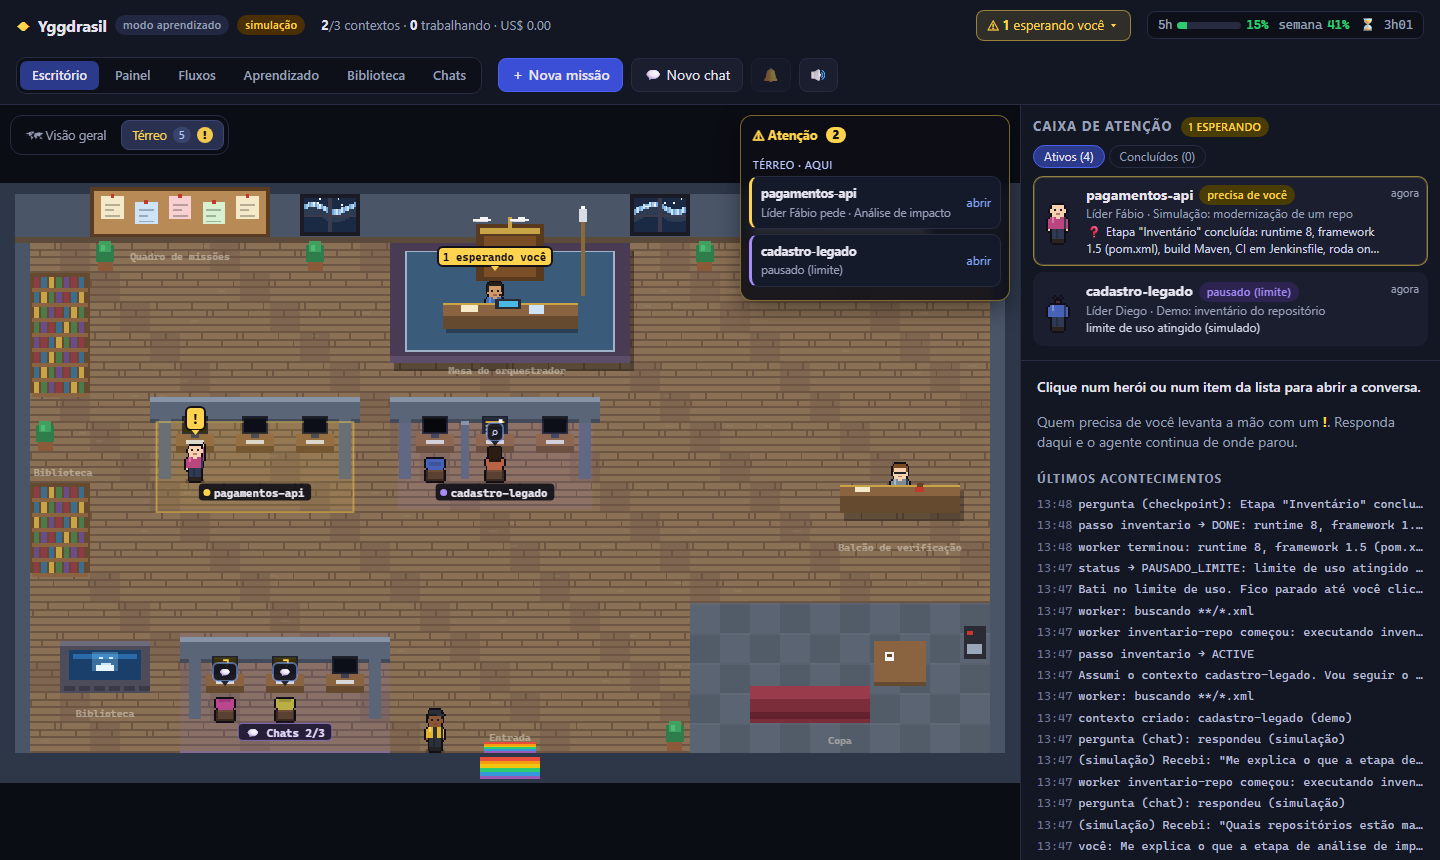
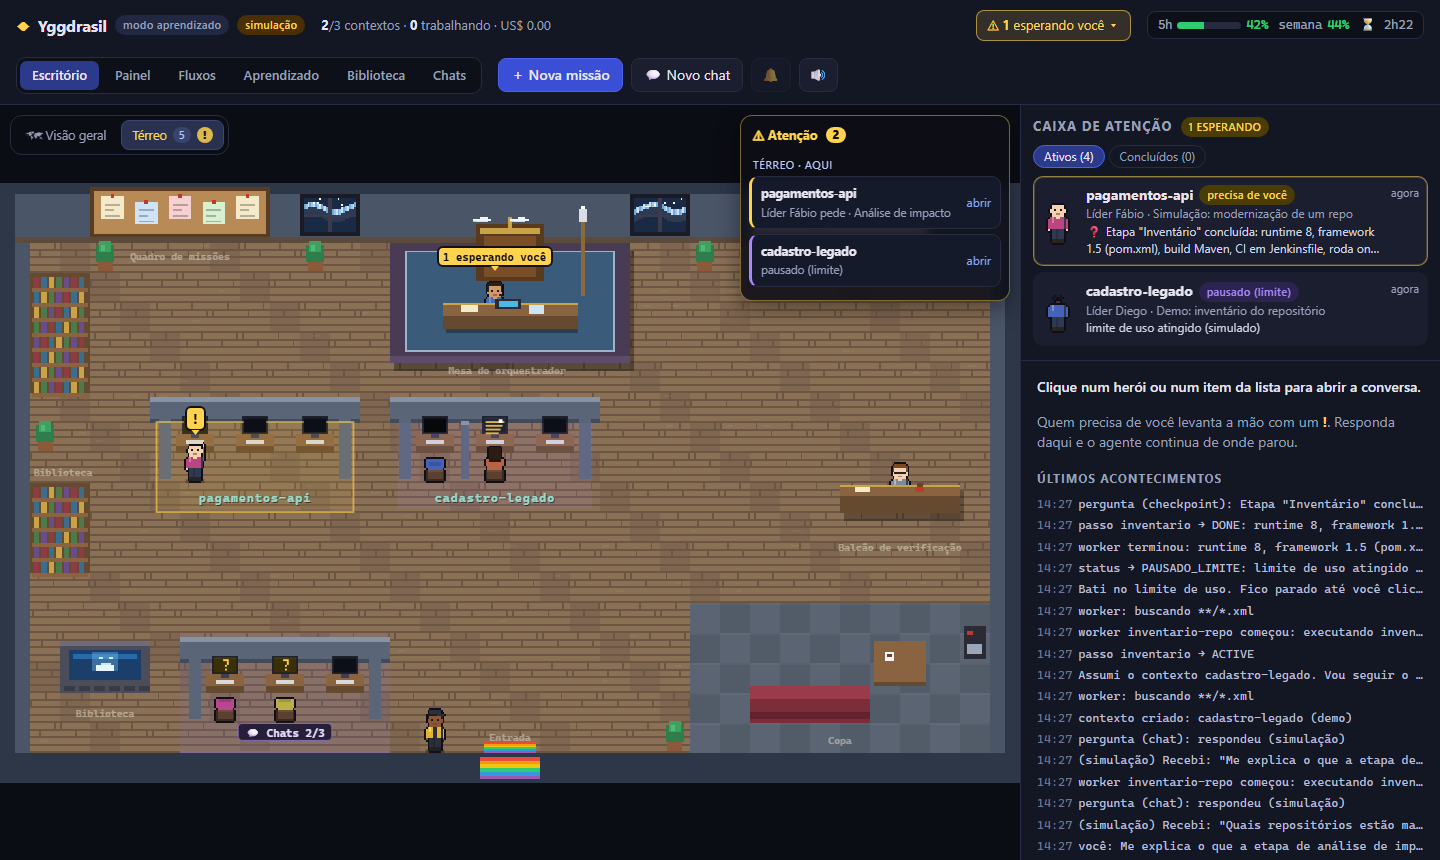
feat: escritório sem bolha de atividade, nome da baia no chão e terminal isolado por agente (núcleo v0.5.2)
- Em cima dos agentes só o que pede você (! e erro), como na visão geral; o que cada um
  executa aparece na dica ao passar o mouse.
- Nome do repo (e do serviço) escrito no chão da baia; a placa com o status aparece ao
  passar o mouse.
- Clicar num agente abre o Terminal isolado nele (só o bloco dele e o que ele lançou),
  com "ver todos" para voltar; a aba Terminal mostra a sessão inteira.
- Imagens do escritório no README refeitas na simulação do molde.

diff --git a/.claude/office/escritorio/motor.js b/.claude/office/escritorio/motor.js
@@ -16,6 +16,7 @@ export function criarEscritorio(canvas, { onSelecionar, onHotspot, onDica, zoomI
   let selecionado = null;
   let agenteSel = null; // ator clicado (destaque próprio, além da baia)
   let hover = null;
+  let hoverBaia = null; // id do contexto da baia sob o mouse: mostra a placa (balão) dela
   let vista = { tipo: 'andar', k: 0 }; // um andar por vez, ou a visão geral (todos os andares em grade)
   let ultimoAndar = 0;
   let celulas = [];                    // visão geral: onde cada andar é desenhado na tela
@@ -400,9 +401,33 @@ export function criarEscritorio(canvas, { onSelecionar, onHotspot, onDica, zoomI
     rotuloLugar(17 * T, 18.6 * T, lug.porta || '');
     }
 
-    // placas das baias (na frente da baia, longe das bolhas sobre as cabeças)
+    // nome da baia escrito no chão, dentro dela (como os rótulos dos lugares); a placa aparece ao passar o mouse
     for (const c of cena.contextos) {
       const b = mapa.baiaDe(c.id);
+      if (!b || hoverBaia === c.id) continue;
+      const centro = paraTela((b.bx + b.largura / 2) * T, (b.by + 3) * T + T / 2);
+      const larg = Math.max(40, (paraTela((b.bx + b.largura) * T, 0).x - paraTela(b.bx * T, 0).x) - 16);
+      const caber = (txt) => { if (g.measureText(txt).width <= larg) return txt; let t = txt; while (t.length > 1 && g.measureText(`${t}…`).width > larg) t = t.slice(0, -1); return `${t}…`; };
+      const serv = servicoDe(c);
+      g.save();
+      g.textAlign = 'center'; g.textBaseline = 'middle';
+      g.shadowColor = 'rgba(10,8,6,.65)'; g.shadowOffsetX = 1; g.shadowOffsetY = 1;
+      g.font = '700 12px ui-monospace, "Cascadia Mono", Consolas, monospace';
+      if ('letterSpacing' in g) g.letterSpacing = '1px';
+      g.fillStyle = 'rgba(155,231,216,.92)';
+      g.fillText(caber(c.repo), centro.x, centro.y - (serv ? 6 : 0));
+      if (serv) {
+        g.font = '600 10px ui-monospace, "Cascadia Mono", Consolas, monospace';
+        if ('letterSpacing' in g) g.letterSpacing = '0px';
+        g.fillStyle = 'rgba(155,231,216,.68)';
+        g.fillText(caber(serv), centro.x, centro.y + 8);
+      }
+      g.restore();
+    }
+
+    // placa da baia sob o mouse (a mesma de antes: nome, serviço e a cor do status)
+    for (const c of cena.contextos) {
+      const b = hoverBaia === c.id && mapa.baiaDe(c.id);
       if (!b) continue;
       const p = paraTela((b.bx + b.largura / 2) * T, (b.by + 3) * T + 5);
       const txt = c.repo.length > 22 ? c.repo.slice(0, 21) + '…' : c.repo;
@@ -439,14 +464,11 @@ export function criarEscritorio(canvas, { onSelecionar, onHotspot, onDica, zoomI
       const topo = paraTela(a.x, a.y - (a.pose === 'sentado' ? 18 : 24));
       const b = a.estado.bolha;
       if (compacto && !(b && (b.tipo === 'atencao' || b.tipo === 'erro'))) continue; // visão geral: só o que pede você
+      // Em cima do agente, só o que pede você (como na visão geral). O que ele está executando
+      // aparece ao passar o mouse, na dica (descrever).
       if (b && b.tipo === 'atencao') bolha(topo.x, topo.y, '!', { fundo: '#ffd34d', fonte: 15, pulso: 0.12 * Math.max(0, Math.sin(agora / 180)) });
       else if (b && b.tipo === 'erro') bolha(topo.x, topo.y, '✖ erro', { fundo: '#ff6b6b', cor: '#fff' });
-      else if (b && b.tipo === 'terminal') bolha(topo.x, topo.y, b.texto, { fundo: '#0b1210', cor: '#39d353', borda: '#39d353' });
-      else if (b && b.tipo === 'zz') { /* zz é efeito */ } else if (a.estado.icone) {
-        const sel = a.ctx && a.ctx.id === selecionado;
-        const rot = a.estado.rotulo && (sel || hover === a) ? ` ${a.estado.rotulo.slice(0, 22)}` : '';
-        bolha(topo.x, topo.y, `${a.estado.icone}${rot}`, { fundo: 'rgba(20,22,34,.92)', cor: '#d8dcff', borda: 'rgba(130,170,255,.55)', fonte: 10, negrito: false });
-      }
+      else if (b && b.tipo === 'terminal' && a.ctx && a.ctx.aguardandoTerminal) bolha(topo.x, topo.y, b.texto, { fundo: '#0b1210', cor: '#39d353', borda: '#39d353' });
       if (a.id === agenteSel && a.ctx && a.ctx.id === selecionado) {
         // destaque do agente clicado: anel nos pés e seta azul
         const pe = paraTela(a.x, a.y);
@@ -563,7 +585,9 @@ export function criarEscritorio(canvas, { onSelecionar, onHotspot, onDica, zoomI
       const a = alvo.ator;
       if (a.tipo === 'npc') return `${a.nome} · ${(tema.personagens && tema.personagens[a.papel] && tema.personagens[a.papel].papel) || a.papel}`;
       const c = a.ctx;
-      const at = a.estado && a.estado.rotulo ? ` · ${a.estado.rotulo}` : '';
+      const e = a.estado || {};
+      const fazendo = e.bolha && e.bolha.tipo === 'terminal' ? e.bolha.texto : [e.icone, e.rotulo].filter(Boolean).join(' ');
+      const at = fazendo ? ` · ${fazendo}` : '';
       return `${a.nome} · ${a.tipo === 'lider' ? 'líder' : a.papel}${c ? ` · ${rotuloContexto(c)} · ${c.status}` : ''}${at}`;
     }
     const lug = tema.lugares || {};
@@ -586,10 +610,11 @@ export function criarEscritorio(canvas, { onSelecionar, onHotspot, onDica, zoomI
       if (cel && !(alvo && alvo.ator)) alvo = { andar: cel.k };
     }
     hover = alvo && alvo.ator ? alvo.ator : null;
+    hoverBaia = alvo && alvo.hotspot && alvo.hotspot.startsWith('ctx:') ? alvo.hotspot.slice(4) : null;
     canvas.style.cursor = alvo ? 'pointer' : 'default';
     if (onDica) onDica(descrever(alvo), e.clientX, e.clientY);
   });
-  canvas.addEventListener('mouseleave', () => { hover = null; hoverAndar = null; if (onDica) onDica(null); });
+  canvas.addEventListener('mouseleave', () => { hover = null; hoverBaia = null; hoverAndar = null; if (onDica) onDica(null); });
   canvas.addEventListener('click', (e) => {
     if (!cena || arrastou) return;
     const r = canvas.getBoundingClientRect();

diff --git a/.claude/office/terminal.js b/.claude/office/terminal.js
@@ -11,6 +11,7 @@ export function criarTerminal(raiz, { onTelaCheia } = {}) {
   raiz.innerHTML = `
     <div class="term-barra">
       <span class="term-meta"></span>
+      <span class="term-iso" hidden><span></span><button type="button" class="btn mini" data-t="todos" title="Volta a mostrar a sessão inteira">ver todos</button></span>
       <label class="term-seguir"><input type="checkbox" checked> seguir</label>
       <button type="button" class="btn mini" data-t="abrir">abrir tudo</button>
       <button type="button" class="btn mini" data-t="fechar">recolher</button>
@@ -23,9 +24,27 @@ export function criarTerminal(raiz, { onTelaCheia } = {}) {
   let fonte = null, ctxAtual = null, blocos = new Map(), orfaos = new Map(), total = 0;
   let focoPendente = null; // agente pedido antes de o bloco dele chegar pelo SSE
   let fixo = null; // cartão da pergunta aberta (painel.js): fica sempre no fim da saída
+  let isolado = null; // agente em foco (id do Agent): o terminal mostra só o bloco dele e o que ele lançou
+  const chipIso = raiz.querySelector('.term-iso');
+
+  /** Marca o bloco isolado e o caminho até ele; o CSS (.term.isolado) esconde o resto. */
+  function aplicarIsolamento() {
+    saida.querySelectorAll('.t-caminho, .t-isolado').forEach((x) => x.classList.remove('t-caminho', 't-isolado'));
+    const b = isolado && blocos.get(isolado);
+    raiz.classList.toggle('isolado', !!b);
+    chipIso.hidden = !b;
+    if (!b) return;
+    b.classList.add('t-isolado', 'aberto');
+    for (let p = b.parentElement; p && p !== saida; p = p.parentElement) {
+      if (p.classList && (p.classList.contains('t-ferr') || p.classList.contains('t-orfao'))) p.classList.add('t-caminho');
+    }
+    const tit = b.querySelector(':scope > .t-cab .t-tit');
+    chipIso.firstElementChild.textContent = `só ${(tit && tit.textContent.trim()) || 'este agente'}`;
+  }
 
   /** Leva o terminal ao bloco de um agente (id = tool_use_id do Agent): abre, rola até ele e pisca. */
   function focar(id) {
+    isolado = id;
     const b = blocos.get(id);
     if (!b) { focoPendente = id; return false; }
     focoPendente = null;
@@ -33,6 +52,7 @@ export function criarTerminal(raiz, { onTelaCheia } = {}) {
     b.classList.add('aberto');
     for (let p = b.parentElement; p && p !== saida; p = p.parentElement) if (p.classList && p.classList.contains('t-ferr')) p.classList.add('aberto');
     b.classList.remove('t-destaque'); void b.offsetWidth; b.classList.add('t-destaque');
+    aplicarIsolamento();
     b.scrollIntoView({ block: 'start', behavior: 'smooth' });
     return true;
   }
@@ -113,6 +133,7 @@ export function criarTerminal(raiz, { onTelaCheia } = {}) {
       if (focoPendente === e.id) setTimeout(() => focar(e.id), 0);
       const orf = orfaos.get(e.id);
       if (orf) { d.querySelector('.t-filhos').append(...orf.querySelector('.t-filhos').childNodes); orf.remove(); orfaos.delete(e.id); }
+      if (isolado && (e.id === isolado || orf)) setTimeout(aplicarIsolamento, 0); // o bloco chegou ou mudou de lugar
     } else if (e.t === 'texto') {
       d.className = 't-texto';
       d.innerHTML = `<span class="t-bola">●</span><div class="md">${md(e.texto)}</div>`;
@@ -144,6 +165,7 @@ export function criarTerminal(raiz, { onTelaCheia } = {}) {
     if (!b) return;
     if (b.dataset.t === 'abrir') saida.querySelectorAll('.t-ferr').forEach((x) => x.classList.add('aberto'));
     if (b.dataset.t === 'fechar') saida.querySelectorAll('.t-ferr').forEach((x) => x.classList.remove('aberto'));
+    if (b.dataset.t === 'todos') { isolado = null; aplicarIsolamento(); seguir.checked = true; rolar(); }
     if (b.dataset.t === 'cheia') { raiz.classList.toggle('cheia'); if (onTelaCheia) onTelaCheia(raiz.classList.contains('cheia')); rolar(); }
   });
 
@@ -163,6 +185,7 @@ export function criarTerminal(raiz, { onTelaCheia } = {}) {
       if (ctxAtual === ctxId && fonte) return;
       this.desconectar();
       ctxAtual = ctxId;
+      isolado = null; aplicarIsolamento(); // outra sessão: volta a mostrar tudo
       if (!ctxId) return;
       limpar();
       saida.insertAdjacentHTML('afterbegin', '<div class="t-sis">conectando…</div>');
@@ -208,6 +231,8 @@ export function criarTerminal(raiz, { onTelaCheia } = {}) {
     desconectar() { if (fonte) { fonte.close(); fonte = null; } ctxAtual = null; },
     irParaOFim() { seguir.checked = true; rolar(); },
     focarAgente(id) { return focar(id); },
+    /** Volta a mostrar a sessão inteira (sai do isolamento por agente). */
+    verTodos() { if (!isolado) return; isolado = null; aplicarIsolamento(); },
     /** Põe um elemento (o cartão da pergunta aberta) no fim da saída e o mantém lá enquanto chegam entradas. */
     encaixar(el) { fixo = el; manterNoFim(); rolar(); },
     soltar() {

diff --git a/.claude/office/estilo.css b/.claude/office/estilo.css
@@ -646,3 +646,14 @@ body.conv-cheia #conv-cheia { border-color: var(--azul); }
 .caixa-filtro button { background: none; border: 1px solid var(--borda); border-radius: 999px; color: var(--suave); padding: 2px 10px; font-size: 12px; cursor: pointer; }
 .caixa-filtro button:hover { color: var(--texto); border-color: #3a4166; }
 .caixa-filtro button.sel { color: var(--texto); background: #2c3a8c; border-color: #4b61f0; }
+
+/* terminal isolado por agente (clique no agente): só o bloco dele e o que ele lançou */
+.term-iso { flex: 1; display: flex; align-items: center; gap: 6px; min-width: 0; font-size: 11.5px; color: #c792ea; background: #1d1530; border: 1px solid #4a3a72; border-radius: 999px; padding: 1px 2px 1px 9px; }
+.term-iso > span { flex: 1; min-width: 0; overflow: hidden; text-overflow: ellipsis; white-space: nowrap; }
+.term-barra .btn.mini, .term-seguir { white-space: nowrap; flex: none; }
+.term.isolado .term-meta { display: none; }
+.term-iso .btn.mini { padding: 1px 8px; font-size: 11px; border-radius: 999px; }
+.term.isolado .term-saida > :not(.t-caminho):not(.t-isolado) { display: none; }
+.term.isolado .t-caminho > .t-cab, .term.isolado .t-caminho > .t-corpo, .term.isolado .t-caminho > .t-sis { display: none; }
+.term.isolado .t-caminho > .t-filhos > :not(.t-caminho):not(.t-isolado) { display: none; }
+.term.isolado .t-caminho > .t-filhos { margin-left: 0; border-left: 0; padding-left: 0; }

diff --git a/.claude/office/painel.js b/.claude/office/painel.js
@@ -611,6 +611,7 @@ document.querySelector('.abas-det').addEventListener('click', (e) => {
   const b = e.target.closest('[data-aba]');
   if (!b) return;
   if (telaCheia && b.dataset.aba === 'terminal') { terminal.sairDaTelaCheia(); definirTelaCheia(false); }
+  if (b.dataset.aba === 'terminal') terminal.verTodos(); // a aba mostra a sessão inteira; o clique no agente isola
   mostrarAba(b.dataset.aba);
 });
 mostrarAba(aba);

diff --git a/README.md b/README.md
@@ -246,7 +246,7 @@ Outra opção: no Office, clique no **quadro de missões** (ou em **＋ Nova mis
 ### Escritório
 Visão de cima, em pixel art, desenhada em Canvas e sem nenhuma imagem externa.
 
-- **Baias**: uma por contexto (repositório), com a placa do repo. Elas **crescem** com o número de agentes e não encolhem enquanto o contexto existe.
+- **Baias**: uma por contexto (repositório), com o nome do repo (e o serviço, quando há) escrito no chão, dentro da baia. Passar o mouse mostra a placa com o status. Elas **crescem** com o número de agentes e não encolhem enquanto o contexto existe.
 - **Personagens**:
   - **a líder** é a sessão do orquestrador naquele contexto. No tema nórdico é uma valquíria; os nomes vêm da mitologia, que é domínio público;
   - **os workers** são os subagentes, heróis originais gerados a partir do nome da skill (capa, máscara, emblema e cores);
@@ -260,6 +260,8 @@ Visão de cima, em pixel art, desenhada em Canvas e sem nenhuma imagem externa.
 | `Bash` | rodando (terminal verde no monitor) |
 | `Agent` | delegando |
 | esperando você | de pé, com a mão levantada e um **!** pulsando |
+
+Em cima dos agentes só aparece o que pede você (o **!** e o erro), como na visão geral. O que cada um está executando (arquivo, comando, busca) aparece ao passar o mouse nele.
 | limite de uso | dormindo na mesa ("zzz") |
 | erro | tela vermelha e fumaça |
 | passo concluído | leva ao balcão do verificador e vai para a copa |
@@ -277,7 +279,7 @@ Visão de cima, em pixel art, desenhada em Canvas e sem nenhuma imagem externa.
   - o **quadro branco** abre o organizador de fluxos;
   - o **poço de Mimir** abre o mapa de aprendizado;
   - as **estantes** abrem a biblioteca de skills.
-- **Navegação**: roda do mouse dá zoom, arrastar move a vista, duplo clique volta ao normal e clicar num personagem abre a conversa dele. O agente clicado ganha um anel e uma seta azuis; se for um subagente, a conversa abre na aba **Terminal**, já no bloco dele (aberto e piscando). Os cartões de agente do Painel fazem o mesmo.
+- **Navegação**: roda do mouse dá zoom, arrastar move a vista, duplo clique volta ao normal e clicar num personagem abre a conversa dele. O agente clicado ganha um anel e uma seta azuis; se for um subagente, a conversa abre na aba **Terminal** **isolada nele**: só o bloco daquele agente e o que ele lançou, com o aviso "só <agente>" e o botão **ver todos** para voltar à sessão inteira (clicar na aba Terminal também mostra tudo). Os cartões de agente do Painel fazem o mesmo.
 - **Andares**: quando as duas fileiras de baias do térreo enchem, as próximas baias sobem para o 1º andar (4 fileiras e um elevador), depois para o 2º, até 8. Andar vazio fecha. Quem trabalha em cima chega e sai pelo elevador. A **barra de andares**, no canto, mostra cada andar com o número de agentes e um **!** onde alguém espera você.
 - **Visão geral**: todos os andares de uma vez, em grade, ocupando a tela inteira (o painel lateral some). Clicar entra no andar; clicar num personagem já abre a conversa. **Esc** volta.
 - **Painel de atenção**: no canto direito, quem precisa de você, deu erro ou pausou pelo limite, agrupado por andar ("aqui" e "em outro andar"). **ir ↗** leva ao andar e abre a conversa.

diff --git a/specs/_nucleo/tarefas.md b/specs/_nucleo/tarefas.md
@@ -41,6 +41,7 @@
 | T37 | **Corrigir** na Conversa e nos Chats: `POST /corrigir` corta o turno e os processos dele (também no Parar) e segue com a correção na mesma sessão (`--resume`) | CA3.x, CA4.3 | feito (v0.5.1) |
 | T38 | Lateral só da conversa: caixa de atenção no botão do topo (lista suspensa com conversa aberta), cabeçalho compacto, largura ajustável pela alça e conversa em tela cheia com a caixa de mensagem | CA4.3 | feito (v0.5.1) |
 | T39 | **Reativar** contexto concluído ou parado (`POST /reativar`, ou escrever na conversa encerrada) na mesma sessão, com a baia de volta (`estado.js`); filtro **Concluídos** na caixa de atenção e nos Fluxos; imagens do README refeitas na simulação do molde | CA2.4, CA4.1, CA4.3 | feito (v0.5.1) |
+| T40 | Escritório sem bolha de atividade sobre os agentes (só o que pede você; o resto na dica ao passar o mouse); nome da baia escrito no chão, com a placa ao passar o mouse; Terminal isolado no agente clicado ("ver todos" volta); etapa concluída verde e apagada nos Fluxos | CA4.1, CA4.3 | feito (v0.5.2) |
 
 ## Como verificar
 
